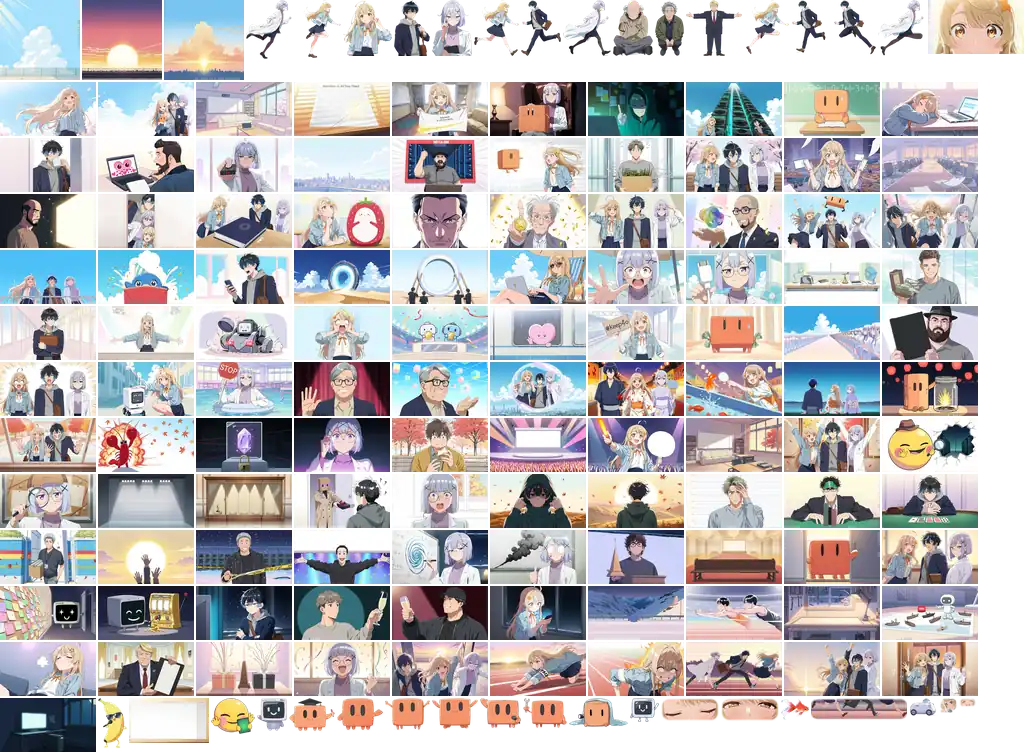
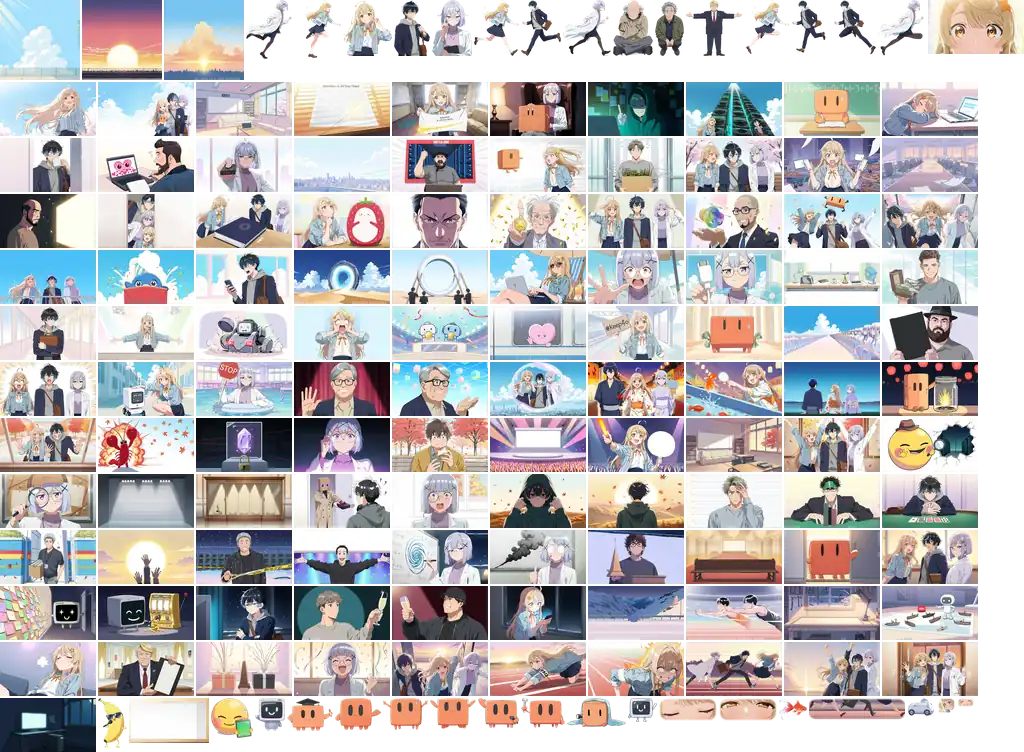
Give the scaling album's anime Huggy two hands
In the anime video, as Jensen buys the crime scene, Huggy hugged its GPU with four hands: the emoji's own two raised by its face, and a second pair holding the card. It now holds the card with its only two. The track's changelog gets a new release for it, Blu-ray vol. 3.

Claude-Session: https://claude.ai/code/session_01XtijouAEzJiuameLaQWXc4

Changed region(s): [[0.1875, 0.9176, 0.6562, 0.9787], [0.6875, 0.9176, 0.9375, 0.9481]]

diff --git a/src/we-didnt-start-the-scaling/assets/engine/anisong.js b/src/we-didnt-start-the-scaling/assets/engine/anisong.js
@@ -1337,15 +1337,15 @@ const AP = {
 const STILLS = {
   "intro_sky": {"layer": "plate", "w": 1280, "h": 1280, "lo": [0, 0, 80, 80]},
   "intro_eyes": {"layer": "full", "w": 1536, "h": 864, "lo": [928, 0, 96, 54]},
-  "intro_eyes.closed": {"layer": "patch", "of": "intro_eyes", "x": 310, "y": 310, "w": 935, "h": 375, "lo": [661, 698, 58, 23]},
-  "intro_eyes.half": {"layer": "patch", "of": "intro_eyes", "x": 310, "y": 310, "w": 935, "h": 375, "lo": [721, 698, 58, 23]},
+  "intro_eyes.closed": {"layer": "patch", "of": "intro_eyes", "x": 310, "y": 310, "w": 935, "h": 375, "lo": [659, 698, 58, 23]},
+  "intro_eyes.half": {"layer": "patch", "of": "intro_eyes", "x": 310, "y": 310, "w": 935, "h": 375, "lo": [719, 698, 58, 23]},
   "intro_wind": {"layer": "full", "w": 1536, "h": 864, "lo": [0, 82, 96, 54]},
-  "intro_wind.laugh": {"layer": "patch", "of": "intro_wind", "x": 965, "y": 202, "w": 275, "h": 140, "lo": [959, 698, 17, 9]},
+  "intro_wind.laugh": {"layer": "patch", "of": "intro_wind", "x": 965, "y": 202, "w": 275, "h": 140, "lo": [957, 698, 17, 9]},
   "card_akari": {"layer": "cutout", "w": 785, "h": 900, "lo": [343, 0, 49, 56]},
   "card_ren": {"layer": "cutout", "w": 579, "h": 900, "lo": [394, 0, 36, 56]},
   "card_kiri": {"layer": "cutout", "w": 632, "h": 900, "lo": [432, 0, 40, 56]},
-  "clawd_jump": {"layer": "cutout", "w": 740, "h": 501, "lo": [432, 698, 46, 31]},
-  "clawd_stand": {"layer": "cutout", "w": 733, "h": 513, "lo": [337, 698, 46, 32]},
+  "clawd_jump": {"layer": "cutout", "w": 740, "h": 501, "lo": [430, 698, 46, 31]},
+  "clawd_stand": {"layer": "cutout", "w": 733, "h": 513, "lo": [335, 698, 46, 32]},
   "keyvisual": {"layer": "full", "w": 1536, "h": 864, "lo": [98, 82, 96, 54]},
   "club_room": {"layer": "plate", "w": 1536, "h": 864, "lo": [196, 82, 96, 54]},
   "v1_1_paper": {"layer": "full", "w": 1536, "h": 864, "lo": [294, 82, 96, 54]},
@@ -1408,28 +1408,28 @@ const STILLS = {
   "v2_16_bubble": {"layer": "full", "w": 1536, "h": 864, "lo": [490, 362, 96, 54]},
   "c2_walk": {"layer": "full", "w": 1536, "h": 864, "lo": [588, 362, 96, 54]},
   "c2_goldfish": {"layer": "full", "w": 1536, "h": 864, "lo": [686, 362, 96, 54]},
-  "c2_fish": {"layer": "cutout", "w": 447, "h": 360, "lo": [781, 698, 28, 22]},
+  "c2_fish": {"layer": "cutout", "w": 447, "h": 360, "lo": [779, 698, 28, 22]},
   "c2_watch": {"layer": "full", "w": 1536, "h": 864, "lo": [784, 362, 96, 54]},
   "c2_jar": {"layer": "full", "w": 1536, "h": 864, "lo": [882, 362, 96, 54]},
   "v3_1_window": {"layer": "full", "w": 1536, "h": 864, "lo": [0, 418, 96, 54]},
-  "v3_agent": {"layer": "cutout", "w": 457, "h": 386, "lo": [630, 698, 29, 24]},
+  "v3_agent": {"layer": "cutout", "w": 457, "h": 386, "lo": [628, 698, 29, 24]},
   "v3_2_lobster": {"layer": "full", "w": 1536, "h": 864, "lo": [98, 418, 96, 54]},
   "v3_3_sandbox": {"layer": "full", "w": 1536, "h": 864, "lo": [196, 418, 96, 54]},
   "v3_3_kiri": {"layer": "full", "w": 1536, "h": 864, "lo": [294, 418, 96, 54]},
   "v3_4_bench": {"layer": "full", "w": 1536, "h": 864, "lo": [392, 418, 96, 54]},
   "v3_5_stage": {"layer": "full", "w": 1536, "h": 864, "lo": [490, 418, 96, 54]},
-  "v3_5_clawd": {"layer": "cutout", "w": 659, "h": 481, "lo": [480, 698, 41, 30]},
+  "v3_5_clawd": {"layer": "cutout", "w": 659, "h": 481, "lo": [478, 698, 41, 30]},
   "v3_5_akari": {"layer": "full", "w": 1536, "h": 864, "lo": [588, 418, 96, 54]},
   "v3_club_autumn": {"layer": "plate", "w": 1536, "h": 864, "lo": [686, 418, 96, 54]},
-  "v3_7_clawd": {"layer": "cutout", "w": 938, "h": 459, "lo": [569, 698, 59, 29]},
+  "v3_7_clawd": {"layer": "cutout", "w": 938, "h": 459, "lo": [567, 698, 59, 29]},
   "v3_8_cheer": {"layer": "full", "w": 1536, "h": 864, "lo": [784, 418, 96, 54]},
   "v3_9_huggy": {"layer": "full", "w": 1536, "h": 864, "lo": [882, 418, 96, 54]},
   "v3_9_kiri": {"layer": "full", "w": 1536, "h": 864, "lo": [0, 474, 96, 54]},
   "v3_9_lineup": {"layer": "full", "w": 1536, "h": 864, "lo": [98, 474, 96, 54]},
-  "v3_agent_sweater": {"layer": "cutout", "w": 487, "h": 526, "lo": [257, 698, 30, 33]},
+  "v3_agent_sweater": {"layer": "cutout", "w": 487, "h": 526, "lo": [255, 698, 30, 33]},
   "v3_12_trophies": {"layer": "full", "w": 1536, "h": 864, "lo": [196, 474, 96, 54]},
   "v3_13_bag": {"layer": "full", "w": 1536, "h": 864, "lo": [294, 474, 96, 54]},
-  "v3_15_clawd": {"layer": "cutout", "w": 736, "h": 522, "lo": [289, 698, 46, 33]},
+  "v3_15_clawd": {"layer": "cutout", "w": 736, "h": 522, "lo": [287, 698, 46, 33]},
   "v3_15_kiri": {"layer": "full", "w": 1536, "h": 864, "lo": [392, 474, 96, 54]},
   "v3_16_hood": {"layer": "full", "w": 1536, "h": 864, "lo": [490, 474, 96, 54]},
   "v3_16_reveal": {"layer": "full", "w": 1536, "h": 864, "lo": [588, 474, 96, 54]},
@@ -1457,15 +1457,15 @@ const STILLS = {
   "v4_9_akari": {"layer": "full", "w": 1536, "h": 864, "lo": [490, 586, 96, 54]},
   "v4_9_road": {"layer": "full", "w": 1536, "h": 864, "lo": [588, 586, 96, 54]},
   "v4_9_tcut": {"layer": "cutout", "w": 904, "h": 900, "lo": [686, 0, 56, 56]},
-  "v4_9_car": {"layer": "cutout", "w": 466, "h": 283, "lo": [909, 698, 29, 18]},
+  "v4_9_car": {"layer": "cutout", "w": 466, "h": 283, "lo": [907, 698, 29, 18]},
   "v4_6_finish": {"layer": "full", "w": 1536, "h": 864, "lo": [686, 586, 96, 54]},
   "v4_11_bench": {"layer": "plate", "w": 1536, "h": 864, "lo": [784, 586, 96, 54]},
-  "v4_11_clawd": {"layer": "cutout", "w": 696, "h": 483, "lo": [523, 698, 44, 30]},
+  "v4_11_clawd": {"layer": "cutout", "w": 696, "h": 483, "lo": [521, 698, 44, 30]},
   "v4_12_map": {"layer": "full", "w": 1536, "h": 864, "lo": [882, 586, 96, 54]},
   "v4_12_phew": {"layer": "full", "w": 1536, "h": 864, "lo": [0, 642, 96, 54]},
   "v4_13_trump": {"layer": "full", "w": 1536, "h": 864, "lo": [98, 642, 96, 54]},
-  "v4_14_clawd": {"layer": "cutout", "w": 715, "h": 513, "lo": [385, 698, 45, 32]},
-  "v4_3_huggy": {"layer": "cutout", "w": 696, "h": 583, "lo": [211, 698, 44, 36]},
+  "v4_14_clawd": {"layer": "cutout", "w": 715, "h": 513, "lo": [383, 698, 45, 32]},
+  "v4_3_huggy": {"layer": "cutout", "w": 665, "h": 636, "lo": [211, 698, 42, 40]},
   "v4_15_gifts": {"layer": "full", "w": 1536, "h": 864, "lo": [196, 642, 96, 54]},
   "v4_15_kiri": {"layer": "full", "w": 1536, "h": 864, "lo": [294, 642, 96, 54]},
   "c4_door": {"layer": "full", "w": 1536, "h": 864, "lo": [392, 642, 96, 54]},
@@ -1477,10 +1477,10 @@ const STILLS = {
   "c4_run_kiri.pass": {"layer": "cutout", "of": "run_kiri", "w": 769, "h": 939, "ox": -4, "oy": 0, "lo": [246, 0, 48, 59]},
   "c4_run_kiri.air": {"layer": "cutout", "of": "run_kiri", "w": 765, "h": 900, "ox": 0, "oy": 0, "lo": [878, 0, 48, 56]},
   "c4_crouch": {"layer": "full", "w": 1536, "h": 864, "lo": [490, 642, 96, 54]},
-  "c4_crouch.calm3": {"layer": "patch", "of": "c4_crouch", "x": 571, "y": 231, "w": 278, "h": 239, "lo": [940, 698, 17, 15]},
+  "c4_crouch.calm3": {"layer": "patch", "of": "c4_crouch", "x": 571, "y": 231, "w": 278, "h": 239, "lo": [938, 698, 17, 15]},
   "c4_racecu": {"layer": "full", "w": 1536, "h": 864, "lo": [588, 642, 96, 54]},
   "c4_race": {"layer": "full", "w": 1536, "h": 864, "lo": [686, 642, 96, 54]},
-  "c4_race.legs2": {"layer": "patch", "of": "c4_race", "x": 0, "y": 450, "w": 1536, "h": 360, "lo": [811, 698, 96, 22]},
+  "c4_race.legs2": {"layer": "patch", "of": "c4_race", "x": 0, "y": 450, "w": 1536, "h": 360, "lo": [809, 698, 96, 22]},
   "c4_group": {"layer": "full", "w": 1536, "h": 864, "lo": [784, 642, 96, 54]},
   "c4_bye": {"layer": "full", "w": 1536, "h": 864, "lo": [882, 642, 96, 54]},
   "c4_night": {"layer": "full", "w": 1536, "h": 864, "lo": [0, 698, 96, 54]},
